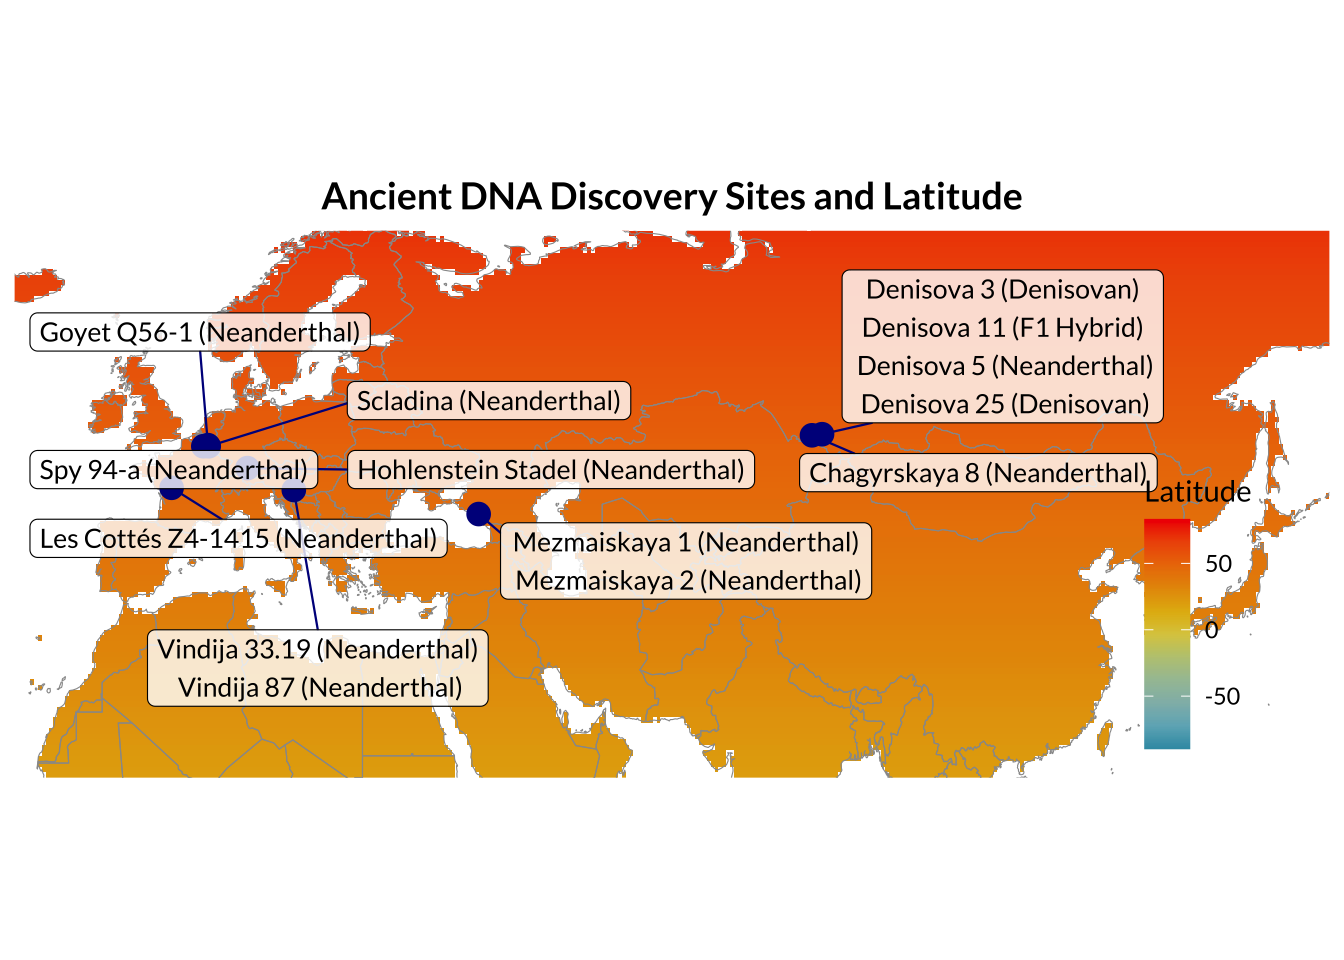
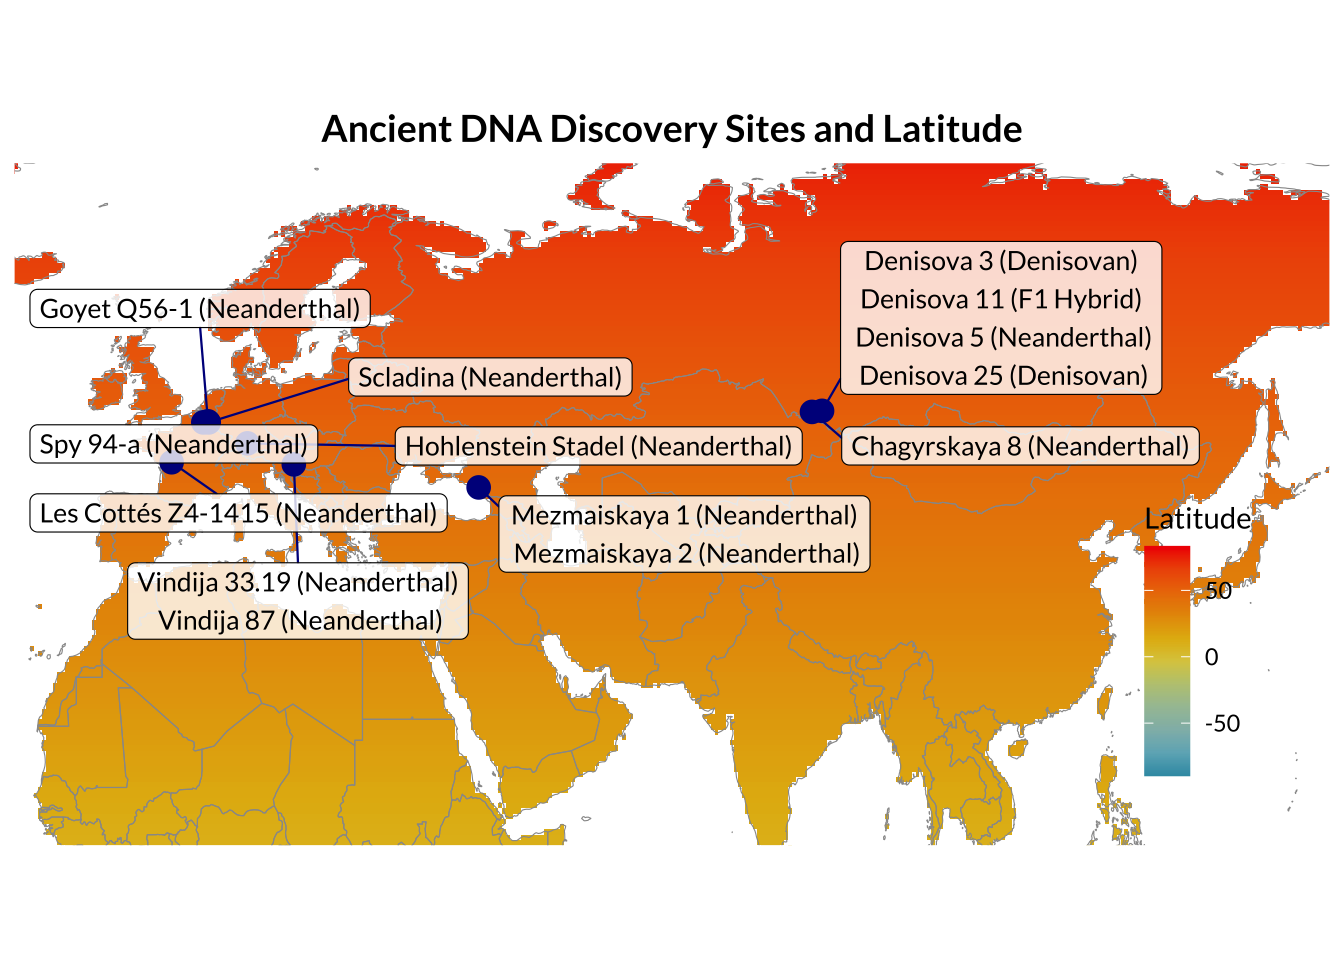
Build site.

diff --git a/docs/introduction.html b/docs/introduction.html
@@ -526,15 +526,15 @@ project makes it easier to run your code on other machines.</p>
 <div class="panel panel-default">
 <div class="panel-heading">
 <p class="panel-title">
-<a data-toggle="collapse" data-parent="#workflowr-checks" href="#strongRepositoryversionstrongahrefhttpsgithubcomlilyhealdPAINTtreef38d843d937af279f73e5fe2f41c1222f9935962targetblankf38d843a">
+<a data-toggle="collapse" data-parent="#workflowr-checks" href="#strongRepositoryversionstrongahrefhttpsgithubcomlilyhealdPAINTtree9fd9ad285aff0801c917f0d19469758f969c5b4atargetblank9fd9ad2a">
 <span class="glyphicon glyphicon-ok text-success"
 aria-hidden="true"></span> <strong>Repository version:</strong>
-<a href="https://github.com/lilyheald/PAINT/tree/f38d843d937af279f73e5fe2f41c1222f9935962" target="_blank">f38d843</a>
+<a href="https://github.com/lilyheald/PAINT/tree/9fd9ad285aff0801c917f0d19469758f969c5b4a" target="_blank">9fd9ad2</a>
 </a>
 </p>
 </div>
 <div
[2 lines of base64/hex data omitted]
 class="panel-collapse collapse">
 <div class="panel-body">
 <p>
@@ -544,7 +544,7 @@ reproducibility.
 </p>
 <p>
 The results in this page were generated with repository version
-<a href="https://github.com/lilyheald/PAINT/tree/f38d843d937af279f73e5fe2f41c1222f9935962" target="_blank">f38d843</a>.
+<a href="https://github.com/lilyheald/PAINT/tree/9fd9ad285aff0801c917f0d19469758f969c5b4a" target="_blank">9fd9ad2</a>.
 See the <em>Past versions</em> tab to see a history of the changes made
 to the R Markdown and HTML files.
 </p>
@@ -683,6 +683,40 @@ Message
 </tr>
 </thead>
 <tbody>
+<tr>
+<td>
+Rmd
+</td>
+<td>
+<a href="https://github.com/lilyheald/PAINT/blob/9fd9ad285aff0801c917f0d19469758f969c5b4a/analysis/introduction.Rmd" target="_blank">9fd9ad2</a>
+</td>
+<td>
+Lily Heald
+</td>
+<td>
+2026-04-16
+</td>
+<td>
+Update maps
+</td>
+</tr>
+<tr>
+<td>
+html
+</td>
+<td>
+<a href="https://rawcdn.githack.com/lilyheald/PAINT/61b18b91753b7165a9d2e0ef9a4abcf765f3beaf/docs/introduction.html" target="_blank">61b18b9</a>
+</td>
+<td>
+Lily Heald
+</td>
+<td>
+2026-04-16
+</td>
+<td>
+Build site.
+</td>
+</tr>
 <tr>
 <td>
 Rmd
@@ -2139,6 +2173,17 @@ Date
 <tbody>
 <tr>
 <td>
+<a href="https://github.com/lilyheald/PAINT/blob/61b18b91753b7165a9d2e0ef9a4abcf765f3beaf/docs/figure/introduction.Rmd/plot-1.png" target="_blank">61b18b9</a>
+</td>
+<td>
+Lily Heald
+</td>
+<td>
+2026-04-16
+</td>
+</tr>
+<tr>
+<td>
 <a href="https://github.com/lilyheald/PAINT/blob/9364493bc4e4cb3a922781a49ac501acf20f1c18/docs/figure/introduction.Rmd/plot-1.png" target="_blank">9364493</a>
 </td>
 <td>
@@ -2363,110 +2408,7 @@ diversity (Africa, Europe, East Asia, Central Asia, and Oceania) to
 provide a stable reference frame for principal component analysis (PCA).
 Variant call files (VCFs) were downloaded as whole-genome SNP datasets
 aligned to the GRCh37/hg19 reference genome.</p>
-<p><img src="figure/introduction.Rmd/modern_samples-1.png" alt="" width="672" style="display: block; margin: auto;" /></p>
-<p>
-<button type="button" class="btn btn-default btn-xs btn-workflowr btn-workflowr-fig" data-toggle="collapse" data-target="#fig-modern_samples-1">
-Past versions of modern_samples-1.png
-</button>
-</p>
-<div id="fig-modern_samples-1" class="collapse">
-<div class="table-responsive">
-<table class="table table-condensed table-hover">
-<thead>
-<tr>
-<th>
-Version
-</th>
-<th>
-Author
-</th>
-<th>
-Date
-</th>
-</tr>
-</thead>
-<tbody>
-<tr>
-<td>
-<a href="https://github.com/lilyheald/PAINT/blob/9976e889bf0b547a6304fef5ca35a67142933b91/docs/figure/introduction.Rmd/modern_samples-1.png" target="_blank">9976e88</a>
-</td>
-<td>
-Lily Heald
-</td>
-<td>
-2026-04-08
-</td>
-</tr>
-<tr>
-<td>
-<a href="https://github.com/lilyheald/PAINT/blob/d283f8da49385a1343e9d4eeb10e546a3fcba9d1/docs/figure/introduction.Rmd/modern_samples-1.png" target="_blank">d283f8d</a>
-</td>
-<td>
-Lily Heald
-</td>
-<td>
-2026-04-08
-</td>
-</tr>
-<tr>
-<td>
-<a href="https://github.com/lilyheald/PAINT/blob/0848e6629940b443cf39d07dca25e536a3fb1958/docs/figure/introduction.Rmd/modern_samples-1.png" target="_blank">0848e66</a>
-</td>
-<td>
-Lily Heald
-</td>
-<td>
-2026-03-26
-</td>
-</tr>
-<tr>
-<td>
-<a href="https://github.com/lilyheald/PAINT/blob/68a40d3814b8cf7602b98e43c8d5478679c2ad82/docs/figure/introduction.Rmd/modern_samples-1.png" target="_blank">68a40d3</a>
-</td>
-<td>
-Lily Heald
-</td>
-<td>
-2026-03-26
-</td>
-</tr>
-<tr>
-<td>
-<a href="https://github.com/lilyheald/PAINT/blob/a713e79a4ffff3fb3b79da47f82561c6727b1f50/docs/figure/introduction.Rmd/modern_samples-1.png" target="_blank">a713e79</a>
-</td>
-<td>
-Lily Heald
-</td>
-<td>
-2026-03-26
-</td>
-</tr>
-<tr>
-<td>
-<a href="https://github.com/lilyheald/PAINT/blob/441e6fe5899ffa37ccdd18232053e8c46b461067/docs/figure/introduction.Rmd/modern_samples-1.png" target="_blank">441e6fe</a>
-</td>
-<td>
-Lily Heald
-</td>
-<td>
-2026-02-09
-</td>
-</tr>
-<tr>
-<td>
-<a href="https://github.com/lilyheald/PAINT/blob/790813f560b366876f071fe5cc70eccbe868fadb/docs/figure/introduction.Rmd/modern_samples-1.png" target="_blank">790813f</a>
-</td>
-<td>
-Lily Heald
-</td>
-<td>
-2026-02-09
-</td>
-</tr>
-</tbody>
-</table>
-</div>
-</div>
+<p><img src="figure/introduction.Rmd/sgdp_subset_map-1.png" alt="" width="672" style="display: block; margin: auto;" /></p>
 <p><img src="figure/introduction.Rmd/geo_diversity-1.png" alt="" width="672" style="display: block; margin: auto;" /></p>
 <p>
 <button type="button" class="btn btn-default btn-xs btn-workflowr btn-workflowr-fig" data-toggle="collapse" data-target="#fig-geo_diversity-1">
